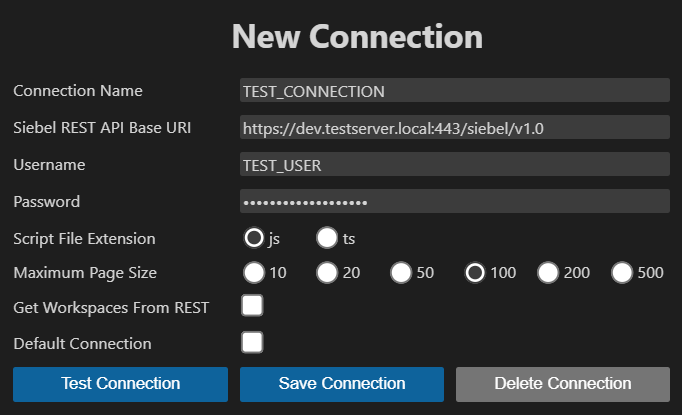
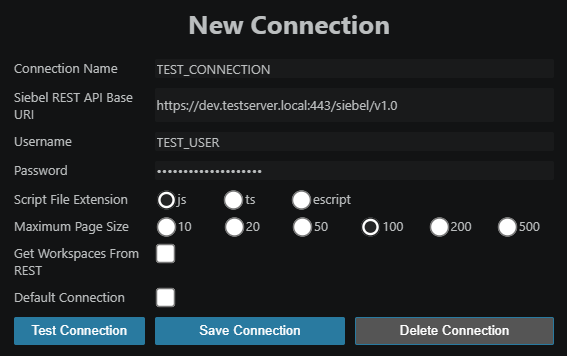
Release v3.2.0

diff --git a/CHANGELOG.md b/CHANGELOG.md
@@ -1,5 +1,9 @@
 **Changelog**
 
+# v3.2.0 - 2026-10-15
+
+- Added support for .escript files used by the [Siebel eScript (ST) extension](https://github.com/TitanSystems-DE/TitanSystems.Siebel.VSCode.LanguageExtension)
+
 # v3.1.0 - 2026-08-06
 
 - New functionality added to get business objects, business object business components and business component fields for autocompletion, [please review the documentation for details](https://github.com/endoit/siebelScriptsEditor/wiki#4-script-and-web-template-actions)
